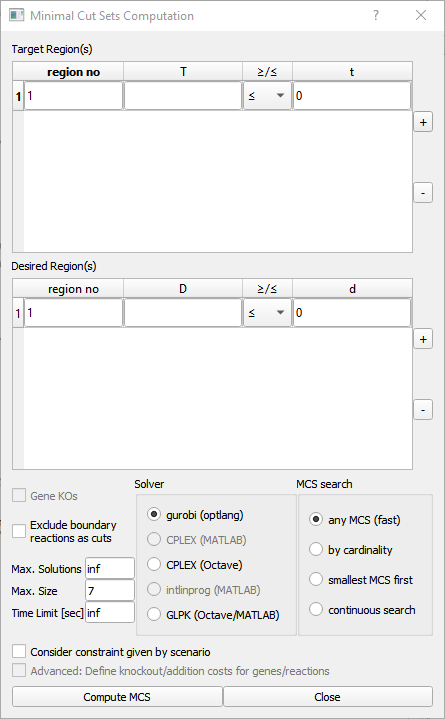
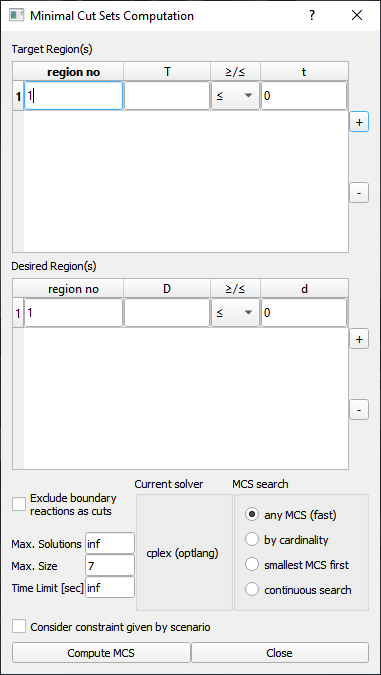
Updates (#7)
* Removed descriptions concerning legacy CNA bridge

* Added/updated descriptions of the methods in Analysis menu

* New screenshot for MCS dialog

* Delete phase-plane-dialog.png

* Delete yield-optimization-dialog.png

diff --git a/content/08.applications.md b/content/08.applications.md
@@ -32,44 +32,17 @@ After optimization, the current scenario is modified so that it contains the cal
 
 Known issue: The solvers are currently accessed through the optlang interface. Setting up the quadratic ojective for the QP via this interface incurs a significant overhead which increases with the number of fluxes set in the scenario. This means that the method as a whole can become quite slow in case more than a few dozen fluxes were set despite the fact that solving the QP itself is ususally quite fast.
 
-### Elementary modes (EFM)/elementary flux vectors (EFV)
+### Elementary modes (EFM)
 
-EFM can be calculated via CNA or directly via efmtool while for EFV CNA is required. After calculation a [navigation panel](#efmmcs-navigation-and-analysis) appears to acces the results.
+EFM can be calculated via [efmtool](https://csb.ethz.ch/tools/software/efmtool.html) which is automatically installed with CNApy. After calculation a [navigation panel](#efmmcs-navigation-and-analysis) appears to acces the results.
 
-![
-**Elementary Flux Mode Computation Dialog.**
-](https://raw.githubusercontent.com/cnapy-org/CNApy-guide/main/content/images/efm-dialog.png "Elementary Flux Mode Computation Dialog"){#fig:efm-dialog}
-
-#### Options for CNA and efmtool
+#### Options
 
 When reactions are marked with 0 flux in a scenario and the option “consider 0 in current scenario as off” is activated then only the subset of EFM/EFV is calculated in which these reactions do not participate
 
-#### Additional options for CNA
+### Computational strain design
 
-- use flux bounds to calculate elementary flux vectors
-To calculate EFV instead of EFM, activate this option. Flux bounds defined in the reactions and the current scenario are then taken into account as inhomogeneous constraints.
-A flux bound is only included when its absolute value is greater than the value given as “Threshold for bounds to be unconstrained”.
-
-- check reversibility
-
-Unchecking this option will lead to all reactions being considered reversible even if they have a rate minimum ≥ 0.
-
-- only convex basis
-
-Currently has no effect (need to be able to switch computation method first).
-
-- consider isozymes only once
-
-If a group of reactions has the same stoichiometry then only the modes with one representative of that group are calculated.
-
-- use rational numbers
-
-Use rational numbers of arbitrary length for EFM/EFV computation (efmtool part only, results will still appear as floating point numbers)
-To calculate EFV instead of EFM, activate this option.
-Flux bounds defined in the reactions and the current scenario are then taken into account as inhomogeneous constraints.
-A flux bound is only included when its absolute value is greater than the value given as “Threshold for bounds to be unconstrained”.
-
-### Minimal cut sets
+#### Minimal cut sets
 
 Minimal cut sets (MCS) can be calculated in CNApy using the dual method. After calculation a [navigation panel](#emfmcs-navigation-and-analysis) appears to acces the results.
 
@@ -86,10 +59,9 @@ All target and desired regions must be initially feasible or an error will be ra
 
 Note that all non-default reaction bounds (as defined by cobra.Configuration().bounds) are automatically added to all target and desired regions before MCS computation.
 
-- Solver
+- Current solver
 
-MCS can either be calculated via CNA (using either Octave or Matlab) or via optlang using different MILP solvers.
-For CNA the solver must be chosen while optlang uses the solver for the current model (cf. Solver for current model).
+MCS can be calculated via optlang using the currently active MILP solver.
 Not all variants and solvers allow for the same options so these will partly be disabled depending on the chosen solver.
 
 - Max. solutions
@@ -113,17 +85,17 @@ With the latter option new MCS are found more quickly but may not be the smalles
 With CPLEX or Gurobi as solver, MCS can also be enumerated by cardinality, i.e. all MCS of successively increasing size (up to max. size) are computed.
 In addition, with these solvers a continuous search mode is possible which is similar to the any MCS method but usually much faster.
 
-- Gene KOs (CNA only)
-
-If the model contains the gene-reaction association, search for gene knock-outs instead of reaction knock-outs.
-
-- Exclude boundary reactions as cuts (optlang only)
+- Exclude boundary reactions as cuts
 
 Do not allow knock-out of boundary reactions (reactions that cross the system boundary, e.g. exchange reactions).
 
 - Consider constraints given by scenario
 
 Take reaction bounds set by the current scenario into account for all target and desired regions.
+
+#### Compute strain designs
+
+Opens a dialog which serves as front-end of the [StrainDesign](https://github.com/klamt-lab/straindesign) package for MILP-based strain design computation which supports MCS, MCS with nested optimization, OptKnock, RobustKnock and OptCouple, GPR-rule integration, gene and reaction knockouts and additions as well as regulatory interventions. A detailed description can be found in its [documentation](https://straindesign.readthedocs.io/en/latest/).
 
 ### EFM/MCS Navigation and analysis
 
@@ -145,26 +117,33 @@ Calculate the relative participation of each reaction in the currently selected 
 
 Calculate the pathway lengths/number of reactions of the currently selected modes/MCS. The result is shown as a size historam in the integrated Jupyter console.
 
-### Yield optimization
+### Flux optimization
 
-![
-**Yield optimization dialog.**
-](https://raw.githubusercontent.com/cnapy-org/CNApy-guide/main/content/images/yield-optimization-dialog.png "Yield optimization dialog"){#fig:yield-dialog}
-
-Maximizes the value of a yield function *c/d* where *c* and *d* are linear expressions over the fluxes in the network.
-For this to work correctly, there must be no flux vector in the network where the denominator becomes zero and the nominator is non-zero.
+Launches a dialog in which you can enter a linear expression (over the fluxes) that can then be maximized or minimized. The result is then displayed on the map(s) and the reaction list.
 The flux values of the current scenario are taken into during the optimization.
 
+### Yield optimization
+
+Launches a dialog in which you can enter two linear expressions (over the fluxes), which serve as numerator/denominator of a linear fractional
+program which then be maximized or minimized.
 A typical application would be the maximization of a product yield: When the exchange fluxes for ethanol and glucose are *EX_etoh* and *EX_glc* then maximizing *EX_etoh/-EX_glc gives* the maximal ethanol yield on glucose.
+For this to work correctly, there must be no flux vector in the network where the denominator becomes zero and the nominator is non-zero.
+The result is then displayed on the map(s) and the reaction list.
+The flux values of the current scenario are taken into during the optimization.
 
-### Phase plane plot
+### Plot flux space
 
-![
-**Phase plane plot dialog.**
-](https://raw.githubusercontent.com/cnapy-org/CNApy-guide/main/content/images/phase-plane-dialog.png "Phase plane plot dialog"){#fig:phase-plane-dialog}
-
-Creates a plot (in the console) that shows the projection of the solution space onto a two-dimensional plane of two selected reaction rates.
+Launches a dialog in which you can configure a plot that shows the projection of the solution space in 2D or 3D where the axes can be flux expressions or yield expressions.
+In the simplest case one can for example plot the growth rate against the substrate uptake rate.
 The flux values of the current scenario are taken into account during the calculations.
+
+### Show model stats
+
+Shows the stoichiometric matrix and basic model properties on the console. In particular, the degrees of freedom of the stoichiometric matrix and the number of conservation relations are calculated for this.
+
+### Net conversion of the external metabolites
+
+Shows the conversion of external metabolites of the current flux distribution. Because there are no external metabolites in COBRApy models this conversion is derived from the rates through the boundary fluxes.
 
 ### Compute in/out fluxes at a metabolite
 

diff --git a/content/04.configuration.md b/content/04.configuration.md
@@ -46,20 +46,3 @@ This value is used to distinguish zero from non-zero elements for various purpos
 
 Here you can change the tolerance for the current model. You may enter an arbitrary value >= 0 here but if it is not compatible with the current solver then “Apply Changes” can lead to an error message.
 
-### Configure CNA bridge
-
-![
-**CNApy Configuration dialog.**
-](https://raw.githubusercontent.com/cnapy-org/CNApy-guide/main/content/images/configure-cna-bridge-dialog.png "CNA bridge dialog"){#fig:config-dialog}
-
-With this dialog you can configure which Matlab/Octave installation CNApy should use.
-
-Some functionalities in CNApy use functions that are provided by CellNetAnalyzer.
-To be able to use these functions you have to provide CNApy with either a path to a Matlab installation >R2019 or the path to an Octave executable >4, and of course with a path to a recent CellNetAnalyzer installation.
-You can do this by clicking these buttons (1).
-If you change the settings CNApy performs some basic tests to make sure everything is working.
-If all checks are successful green check marks  are shown, if a check fails a red cross  is shown.
-
-If no check can be performed, a yellow question mark is shown.
-For example, the check of the CNA directory needs a working Matlab or Octave installation.
-
